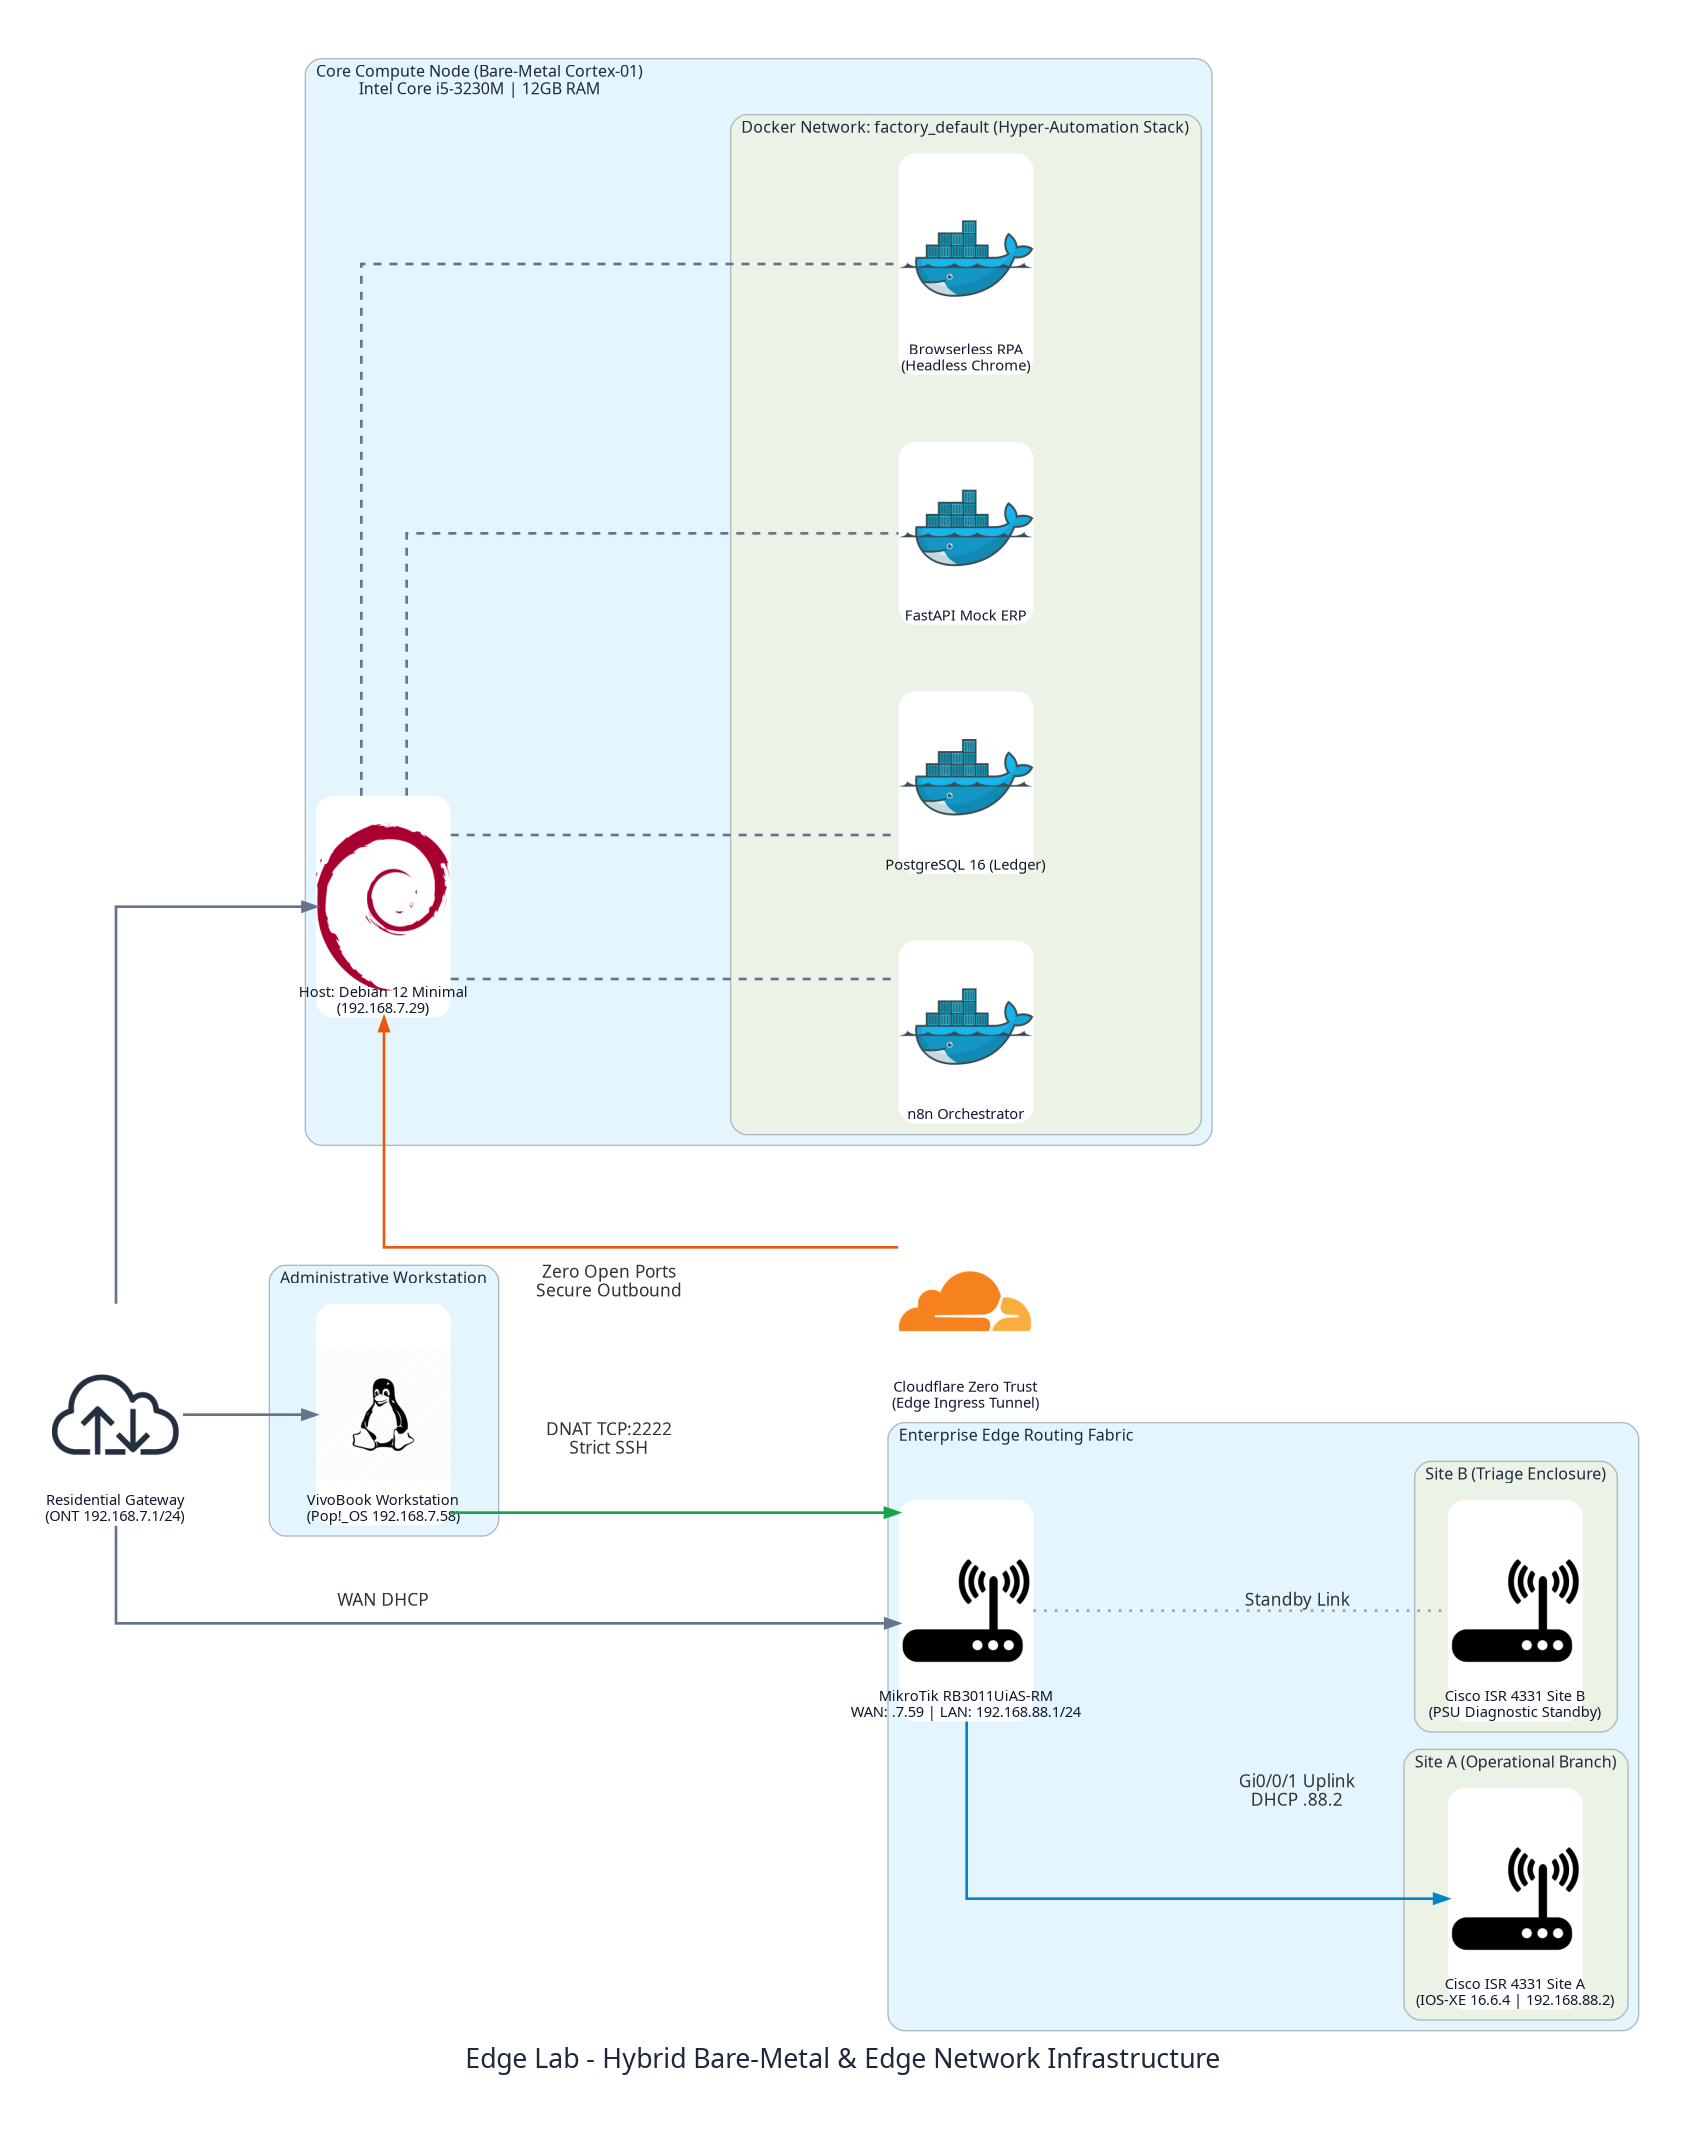
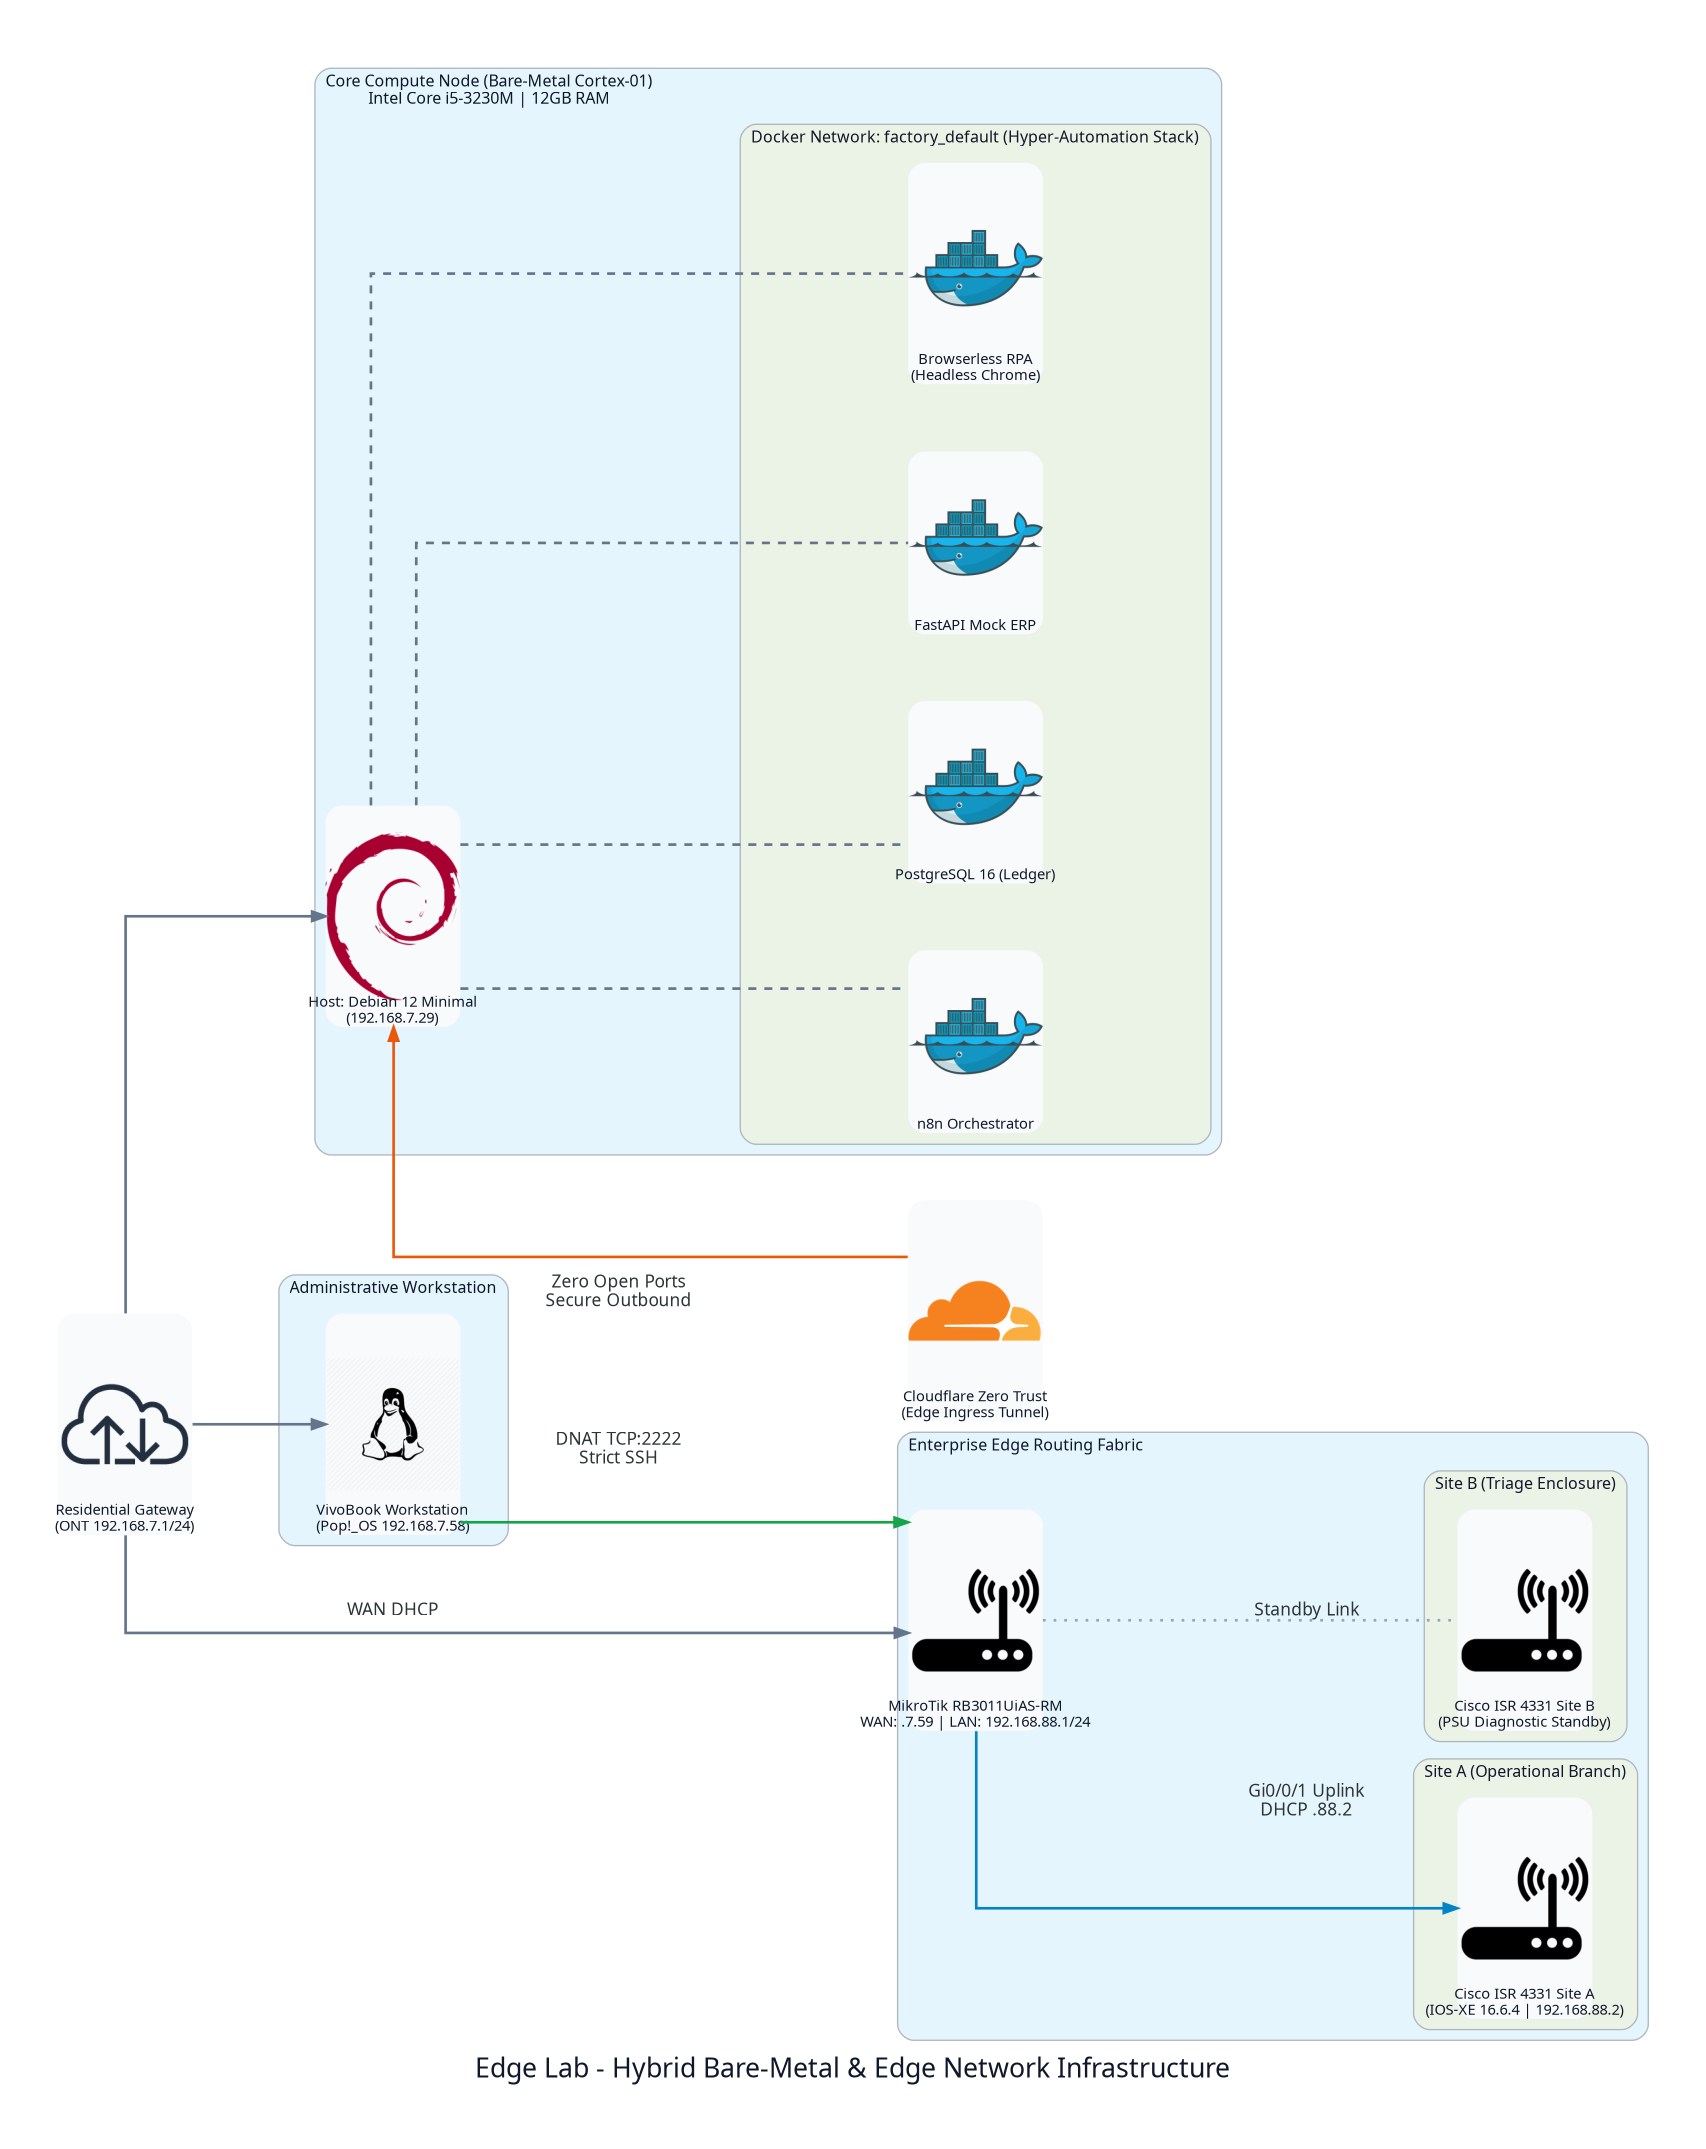
docs(architecture): set solid white background on topology diagram and add OCI to cloud platform comparisons

diff --git a/README.md b/README.md
@@ -92,7 +92,7 @@ This infrastructure provides demonstrable, verifiable evidence across multiple e
 | **Platform Engineering** | Bare-metal Linux host administration (Debian 12 minimal), unified Docker Compose topologies, resource quota containment (`mem_limit`), and container lifecycle automation. | [IAM-HR Platform](https://github.com/PhilipeOliveiraS/iam-hr-offboarding-platform) (Postgres 16, n8n, FastAPI ERP, Browserless RPA). |
 | **NetDevOps & Edge Networking** | RouterOS 7.23.7 long-term automation, VLAN/bridge segmentation, strict stateful firewall input chains, and Cisco IOS-XE 16.6.4 modular edge routing. | Future **OpsCore** physical telemetry aggregator & physical network enforcement. |
 | **Zero Trust & DevSecOps** | Elimination of public perimeter exposure via Cloudflare Zero Trust Tunnels, out-of-band management restrictions (ACLs limiting VTY/SSH strictly to admin host `192.168.7.58`), and cryptographic hygiene. | End-to-end identity revocation and credential quarantine. |
-| **Cloud FinOps & Capacity Planning** | Measuring true cost-of-compute by comparing local bare-metal performance baselines against variable cloud IaaS/PaaS pricing (NAT Gateways, egress traffic, managed container runtimes). | High-efficiency microservice deployments and synthetic workload simulation. |
+| **Cloud FinOps & Capacity Planning** | Measuring true cost-of-compute by comparing local bare-metal performance baselines against variable multi-cloud IaaS/PaaS pricing across AWS, GCP, and OCI (NAT Gateways, egress traffic, managed container runtimes such as ECS, Cloud Run, and OCI Container Instances). | High-efficiency microservice deployments and synthetic workload simulation. |
 
 ---
 

diff --git a/docs/adr/0001-constraint-driven-bare-metal-compute.md b/docs/adr/0001-constraint-driven-bare-metal-compute.md
@@ -4,7 +4,7 @@
 Accepted
 
 ## Context
-Deploying full enterprise automation and identity lifecycle stacks—including workflow orchestrators (n8n), transactional relational ledgers (PostgreSQL 16), mock microservices (FastAPI), and AI agent synthesizers—on managed public cloud infrastructure (such as AWS ECS, GCP Cloud Run, or multi-node Kubernetes) incurs substantial recurring operational expenses (FinOps overhead) and abstracts away key physical systems realities.
+Deploying full enterprise automation and identity lifecycle stacks—including workflow orchestrators (n8n), transactional relational ledgers (PostgreSQL 16), mock microservices (FastAPI), and AI agent synthesizers—on managed public cloud infrastructure (such as AWS ECS, GCP Cloud Run, OCI Container Instances, or multi-node Kubernetes) incurs substantial recurring operational expenses (FinOps overhead) and abstracts away key physical systems realities.
 
 To support continuous development, deterministic performance verification, and load simulation without monthly cloud compute bills, a local dedicated compute resource was required.
 
